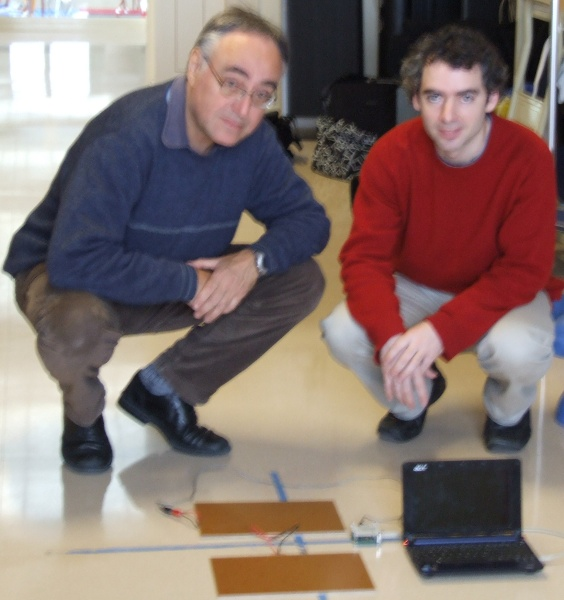
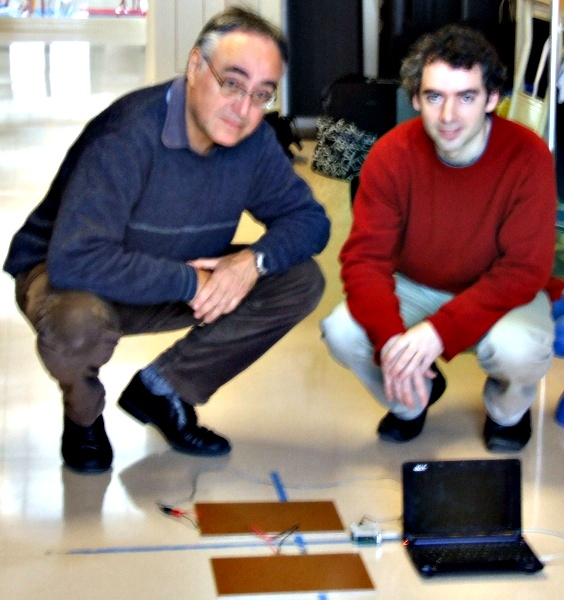
added modular platform
svn path=/trunk/; revision=462

diff --git a/web/html_created_no_edit/print/screenshots_pt.html b/web/html_created_no_edit/print/screenshots_pt.html
@@ -102,8 +102,8 @@ v.0.3 Adicionar sujeitos m&uacute;ltiples e prefer&ecirc;ncias (Espanhol)
 v.0.1 Gr&aacute;ficos (Ingl&ecirc;s)
 </td>
 
-<td width="250"><a href="http://projects.gnome.org/chronojump/images/plataforma_contactos_final.jpg"><img src="http://projects.gnome.org/chronojump/images/plataforma_contactos_final_small.png" width="250" height="188"></a> 
-Plataforma de contatos constru&iacute;da seguindo estas <a href="construction_contact_platform_es.html">instru&ccedil;&otilde;es</a> (Espanhol)
+<td width="250"><a href="http://projects.gnome.org/chronojump/images/modular_platform_with_chronopic.jpg"><img src="http://projects.gnome.org/chronojump/images/modular_platform_with_chronopic_mini.jpg" width="250" height="188"></a> 
+Modular platform build following these <a href="construction_modular_circuit_platform_es.html">instructions</a> (spanish) (TRANSLATE)
 </td></tr>
 
 
@@ -111,7 +111,9 @@ Plataforma de contatos constru&iacute;da seguindo estas <a href="construction_co
 v.0.1 Gr&aacute;ficos de saltos reativos (ingl&ecirc;s)
 </td>
 
-<td width="250">&nbsp;</td></tr>
+<td width="250"><a href="http://projects.gnome.org/chronojump/images/plataforma_contactos_final.jpg"><img src="http://projects.gnome.org/chronojump/images/plataforma_contactos_final_small.png" width="250" height="188"></a> 
+Plataforma de contatos constru&iacute;da seguindo estas <a href="construction_contact_platform_es.html">instru&ccedil;&otilde;es</a> (Espanhol)
+</td></tr>
 
 
 </table>

diff --git a/web/html_created_no_edit/print/screenshots.html b/web/html_created_no_edit/print/screenshots.html
@@ -102,16 +102,19 @@ Chronopic 1.0 (Skypic + expansion card)
 v.0.1 graphs (english)
 </td>
 
-<td width="250"><a href="http://projects.gnome.org/chronojump/images/plataforma_contactos_final.jpg"><img src="http://projects.gnome.org/chronojump/images/plataforma_contactos_final_small.png" width="250" height="188"></a> 
-contact platform build following these <a href="construction_contact_platform.html">instructions</a>
+<td width="250"><a href="http://projects.gnome.org/chronojump/images/modular_platform_with_chronopic.jpg"><img src="http://projects.gnome.org/chronojump/images/modular_platform_with_chronopic_mini.jpg" width="250" height="188"></a> 
+Modular platform build following these <a href="construction_modular_circuit_platform_es.html">instructions</a> (spanish)
 </td></tr>
+
 
 
 <tr valign="top"><td width="250"><a href="http://projects.gnome.org/chronojump/images/chronojump_graphs_reactive.png"><img src="http://projects.gnome.org/chronojump/images/chronojump_graphs_reactive_small.png" width="250" height="188"></a> 
 v.0.1 graphs reactive jumps (english)
 </td>
 
-<td width="250">&nbsp;</td></tr>
+<td width="250"><a href="http://projects.gnome.org/chronojump/images/plataforma_contactos_final.jpg"><img src="http://projects.gnome.org/chronojump/images/plataforma_contactos_final_small.png" width="250" height="188"></a> 
+contact platform build following these <a href="construction_contact_platform.html">instructions</a>
+</td></tr>
 
 
 </table>

diff --git a/web/html_created_no_edit/print/screenshots_gl.html b/web/html_created_no_edit/print/screenshots_gl.html
@@ -102,8 +102,8 @@ Chronopic 1.0 (Skypic + tarxeta de expansi&oacute;n)
 v.0.1 Gr&aacute;ficas (ingl&eacute;s)
 </td>
 
-<td width="250"><a href="http://projects.gnome.org/chronojump/images/plataforma_contactos_final.jpg"><img src="http://projects.gnome.org/chronojump/images/plataforma_contactos_final_small.png" width="250" height="188"></a> 
-Plataforma de contactos constru&iacute;da seguindo estas <a href="construction_contact_platform_gl.html">instruci&oacute;ns</a>
+<td width="250"><a href="http://projects.gnome.org/chronojump/images/modular_platform_with_chronopic.jpg"><img src="http://projects.gnome.org/chronojump/images/modular_platform_with_chronopic_mini.jpg" width="250" height="188"></a> 
+Modular platform build following these <a href="construction_modular_circuit_platform_es.html">instructions</a> (spanish) (TRANSLATE)
 </td></tr>
 
 
@@ -111,7 +111,9 @@ Plataforma de contactos constru&iacute;da seguindo estas <a href="construction_c
 v.0.1 Gr&aacute;ficas de saltos reactivos (ingl&eacute;s)
 </td>
 
-<td width="250">&nbsp;</td></tr>
+<td width="250"><a href="http://projects.gnome.org/chronojump/images/plataforma_contactos_final.jpg"><img src="http://projects.gnome.org/chronojump/images/plataforma_contactos_final_small.png" width="250" height="188"></a> 
+Plataforma de contactos constru&iacute;da seguindo estas <a href="construction_contact_platform_gl.html">instruci&oacute;ns</a>
+</td></tr>
 
 
 </table>

diff --git a/web/html_created_no_edit/print/screenshots_ca.html b/web/html_created_no_edit/print/screenshots_ca.html
@@ -102,8 +102,8 @@ Chronopic 1.0 (Skypic + targeta d'expansi&oacute;)
 v.0.1 gr&agrave;fiques (angl&egrave;s) 
 </td>
 
-<td width="250"><a href="http://projects.gnome.org/chronojump/images/plataforma_contactos_final.jpg"><img src="http://projects.gnome.org/chronojump/images/plataforma_contactos_final_small.png" width="250" height="188"></a> 
-Platforma de contactes construida seguint aquestes <a href="construction_contact_platform_ca.html">instruccions</a> 
+<td width="250"><a href="http://projects.gnome.org/chronojump/images/modular_platform_with_chronopic.jpg"><img src="http://projects.gnome.org/chronojump/images/modular_platform_with_chronopic_mini.jpg" width="250" height="188"></a> 
+Platforma modular construida seguint aquestes <a href="construction_modular_circuit_platform_es.html">instruccions</a> (castell&agrave;)
 </td></tr>
 
 
@@ -111,7 +111,9 @@ Platforma de contactes construida seguint aquestes <a href="construction_contact
 v.0.1 gr&agrave;ficas de salts reactius (angl&egrave;s) 
 </td>
 
-<td width="250">&nbsp;</td></tr>
+<td width="250"><a href="http://projects.gnome.org/chronojump/images/plataforma_contactos_final.jpg"><img src="http://projects.gnome.org/chronojump/images/plataforma_contactos_final_small.png" width="250" height="188"></a> 
+Platforma de contactes construida seguint aquestes <a href="construction_contact_platform_ca.html">instruccions</a> 
+</td></tr>
 
 
 </table>

diff --git a/web/html_created_no_edit/print/screenshots_es.html b/web/html_created_no_edit/print/screenshots_es.html
@@ -102,8 +102,8 @@ Chronopic 1.0 (Skypic + tarjeta de expansi&oacute;n)
 v.0.1 gr&aacute;ficas (ingl&eacute;s)
 </td>
 
-<td width="250"><a href="http://projects.gnome.org/chronojump/images/plataforma_contactos_final.jpg"><img src="http://projects.gnome.org/chronojump/images/plataforma_contactos_final_small.png" width="250" height="188"></a> 
-Platforma de contactos construida siguiendo estas <a href="construction_contact_platform_es.html">instrucciones</a>
+<td width="250"><a href="http://projects.gnome.org/chronojump/images/modular_platform_with_chronopic.jpg"><img src="http://projects.gnome.org/chronojump/images/modular_platform_with_chronopic_mini.jpg" width="250" height="188"></a> 
+Platforma modular construida siguiendo estas <a href="construction_modular_circuit_platform_es.html">instrucciones</a>
 </td></tr>
 
 
@@ -111,7 +111,10 @@ Platforma de contactos construida siguiendo estas <a href="construction_contact_
 v.0.1 gr&aacute;ficas de saltos reactivos (ingl&eacute;s)
 </td>
 
-<td width="250">&nbsp;</td></tr>
+<td width="250"><a href="http://projects.gnome.org/chronojump/images/plataforma_contactos_final.jpg"><img src="http://projects.gnome.org/chronojump/images/plataforma_contactos_final_small.png" width="250" height="188"></a> 
+Platforma de contactos construida siguiendo estas <a href="construction_contact_platform_es.html">instrucciones</a>
+</td></tr>
+
 
 
 </table>

diff --git a/web/html_created_no_edit/print/faq_pt.html b/web/html_created_no_edit/print/faq_pt.html
@@ -28,7 +28,7 @@ FAQ de Chronojump - lista de perguntas freq&uuml;entes
 <ol>
 <li>Como posso construir a plataforma de contatos?
 <p>
-Atenda as instru&ccedil;&otilde;es descritas nesta p&aacute;gina web: <a href="construction_contact_platform_es.html">"Instru&ccedil;&otilde;es para a constru&ccedil;&atilde;o de uma plataforma de contatos para a medi&ccedil;&atilde;o da capacidade de salto/s"</a>.
+Lea la <a href="hardware_pt.html">p&aacute;xina de hardware</a>.
  
 <p><li>Onde posso comprar a plataforma de contatos? Posso vender a que eu fabriquei?
 <p>

diff --git a/web/html_created_no_edit/faq_es.html b/web/html_created_no_edit/faq_es.html
@@ -61,7 +61,7 @@ FAQ de Chronojump - listado de preguntas frecuentes
 <ol>
 <li>¿C&oacute;mo puedo construir la plataforma de contactos?
 <p>
-Siga las instrucciones descritas en esta p&aacute;gina web: <a href="construction_contact_platform_es.html">"Instrucciones para la construcci&oacute;n de una plataforma de contactos para la medici&oacute;n de la capacidad de salto/s"</a>.
+Consulte la <a href="hardware_es.html">p&aacute;gina de hardware</a>.
 
 <p><li>¿D&oacute;nde puedo comprar la plataforma de contactos? ¿Puedo vender la que he hecho yo?
 <p>

diff --git a/web/html_created_no_edit/print/faq_es.html b/web/html_created_no_edit/print/faq_es.html
@@ -28,7 +28,7 @@ FAQ de Chronojump - listado de preguntas frecuentes
 <ol>
 <li>¿C&oacute;mo puedo construir la plataforma de contactos?
 <p>
-Siga las instrucciones descritas en esta p&aacute;gina web: <a href="construction_contact_platform_es.html">"Instrucciones para la construcci&oacute;n de una plataforma de contactos para la medici&oacute;n de la capacidad de salto/s"</a>.
+Consulte la <a href="hardware_es.html">p&aacute;gina de hardware</a>.
 
 <p><li>¿D&oacute;nde puedo comprar la plataforma de contactos? ¿Puedo vender la que he hecho yo?
 <p>

diff --git a/web/html_created_no_edit/print/faq_ca.html b/web/html_created_no_edit/print/faq_ca.html
@@ -28,7 +28,7 @@ FAQ de Chronojump - llistat de preguntes freq&uuml;ents
 <ol>
 <li>Com puc construir una plataforma de contactes?
 <p>
-Seguiu les instruccions que es descriuen en aquesta p&agrave;gina web: <a href="construction_contact_platform_ca.html">"Instruccions per la construcci&oacute; d'una plataforma de contactes per a la mesura de la capacitat del salt/s"</a>.
+Accediu a la p&agrave;gina web de <a href="hardware_ca.html">maquinari</a>.
 
 <p><li>On puc comprar la plataforma de contactes? Puc vendre la que jo he fet?
 <p>

diff --git a/web/html_created_no_edit/print/faq_gl.html b/web/html_created_no_edit/print/faq_gl.html
@@ -28,7 +28,7 @@ FAQ de ChronoJump - listado de preguntas frecuentes
 <ol>
 <li>Como podo constru&iacute;r a plataforma de contactos?
 <p>
-Siga as instruci&oacute;ns descritas nesta p&aacute;xina web: <a href="construction_contact_platform_gl.html">"Instruci&oacute;ns para a construci&oacute;n dunha plataforma de contactos para a medici&oacute;n da capacidade de salto/s"</a>.
+Lea la <a href="hardware_gl.html">p&aacute;xina de hardware</a>.
 
 
 <p><li>Onde podo mercar a plataforma de contactos? Podo vender a que eu fixen?

diff --git a/web/html_created_no_edit/print/faq.html b/web/html_created_no_edit/print/faq.html
@@ -28,7 +28,7 @@ Chronojump FAQ – Frequently asked questions
 <ol>
 <li>How can I build a contact platform? 
 <p>
-Follow the instruction on given on this web page: <a href="construction_contact_platform.html">"Instruction on how to build a contact platform to measure jump capacity"</a>.
+Read the webpage: <a href="hardware.html">hardware</a>.
 
 <p><li>Where can I buy a contact platform? Can I sell the one I built myself?
 <p>
